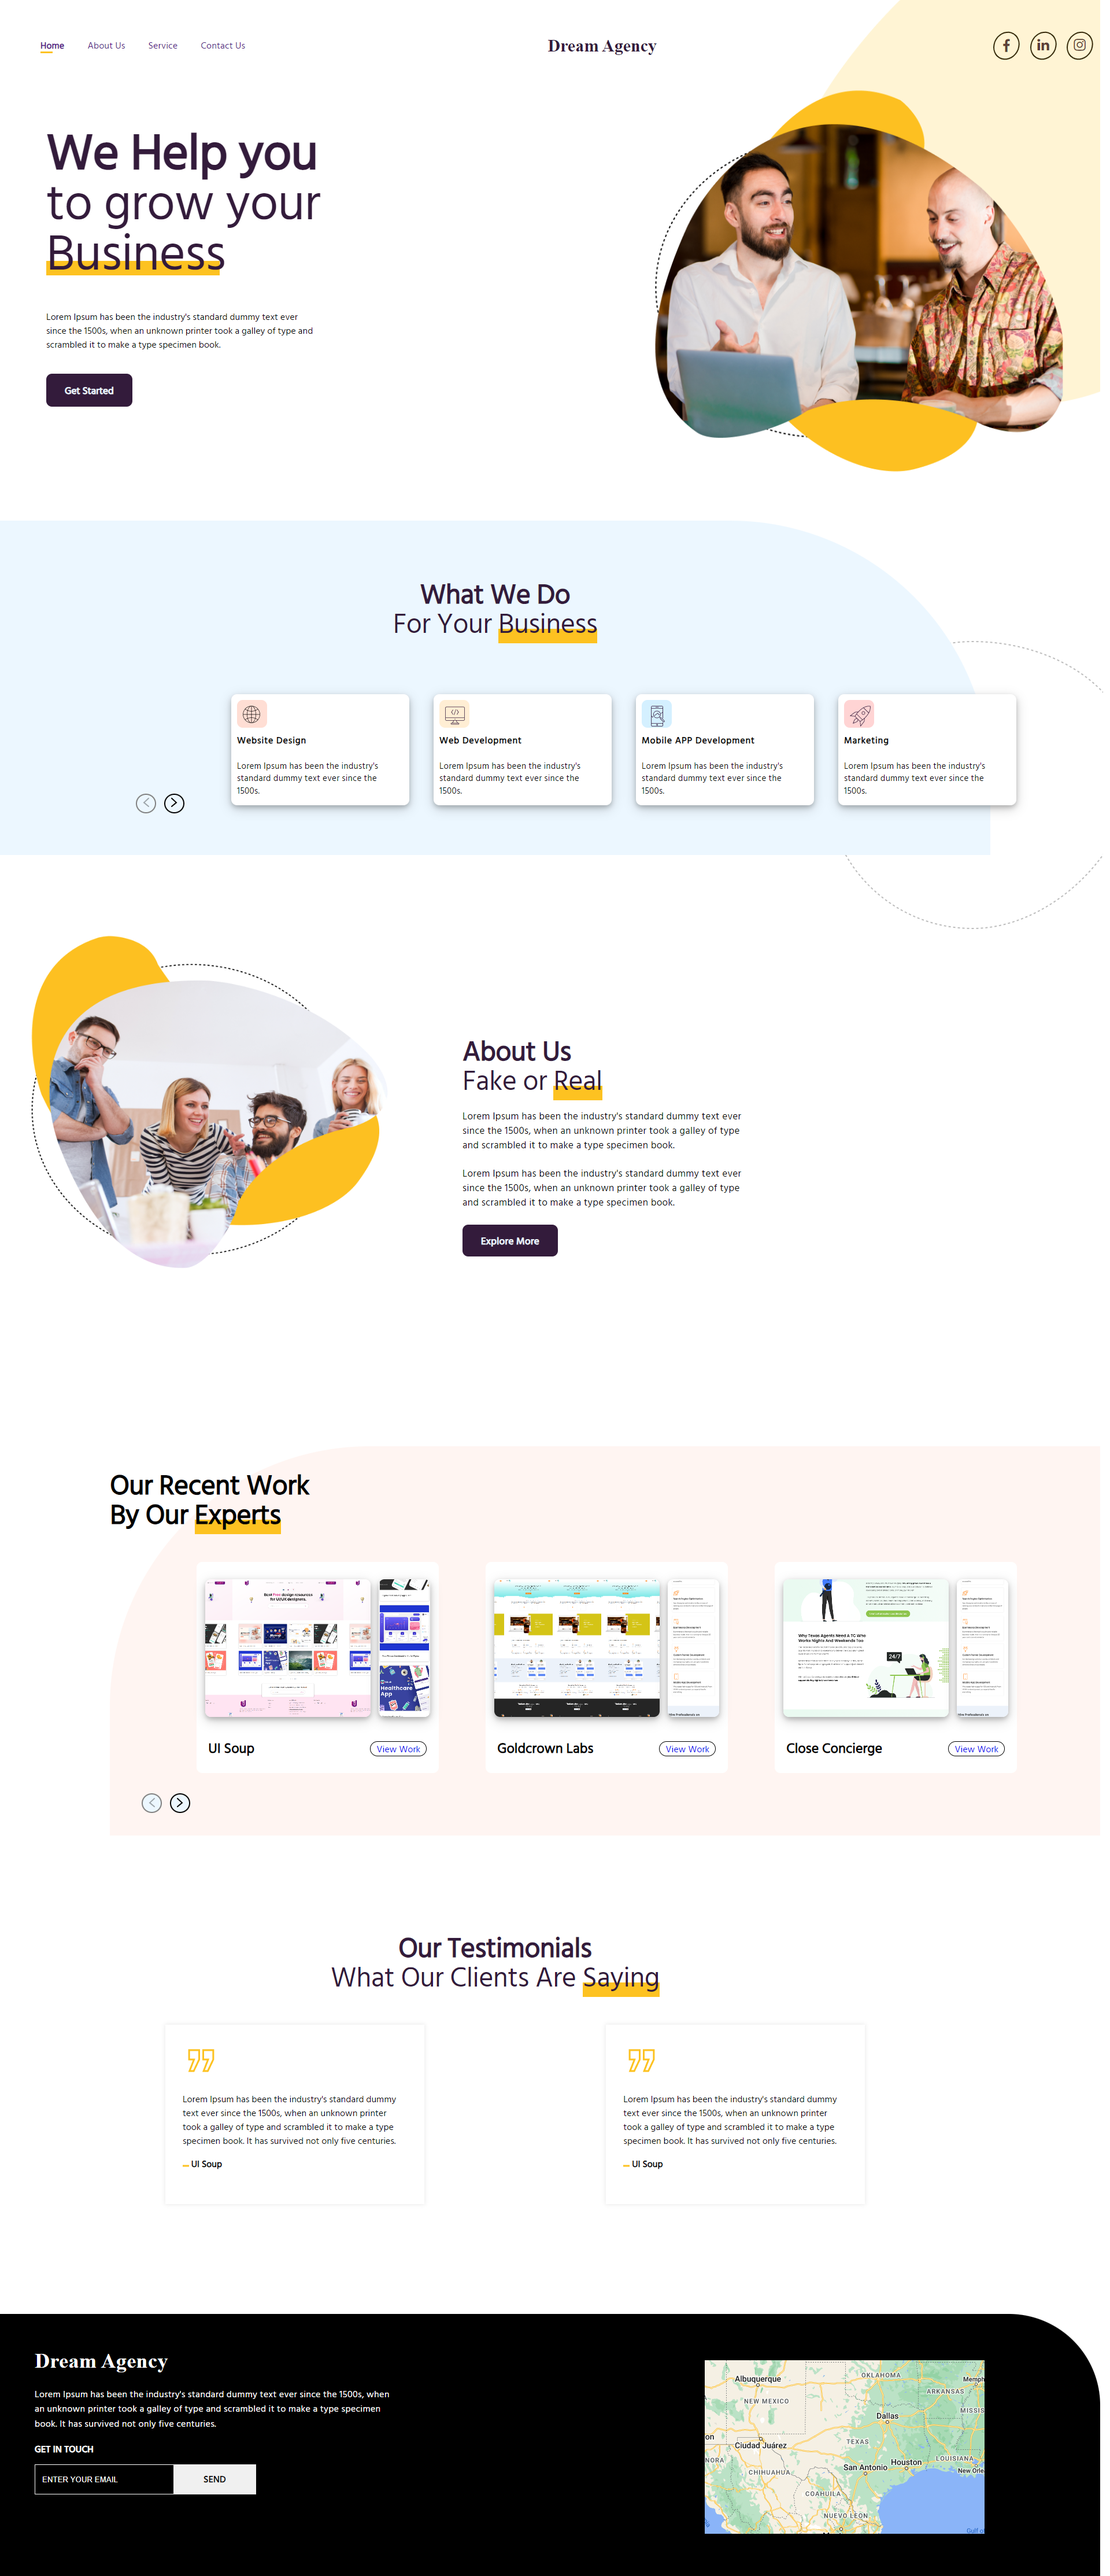
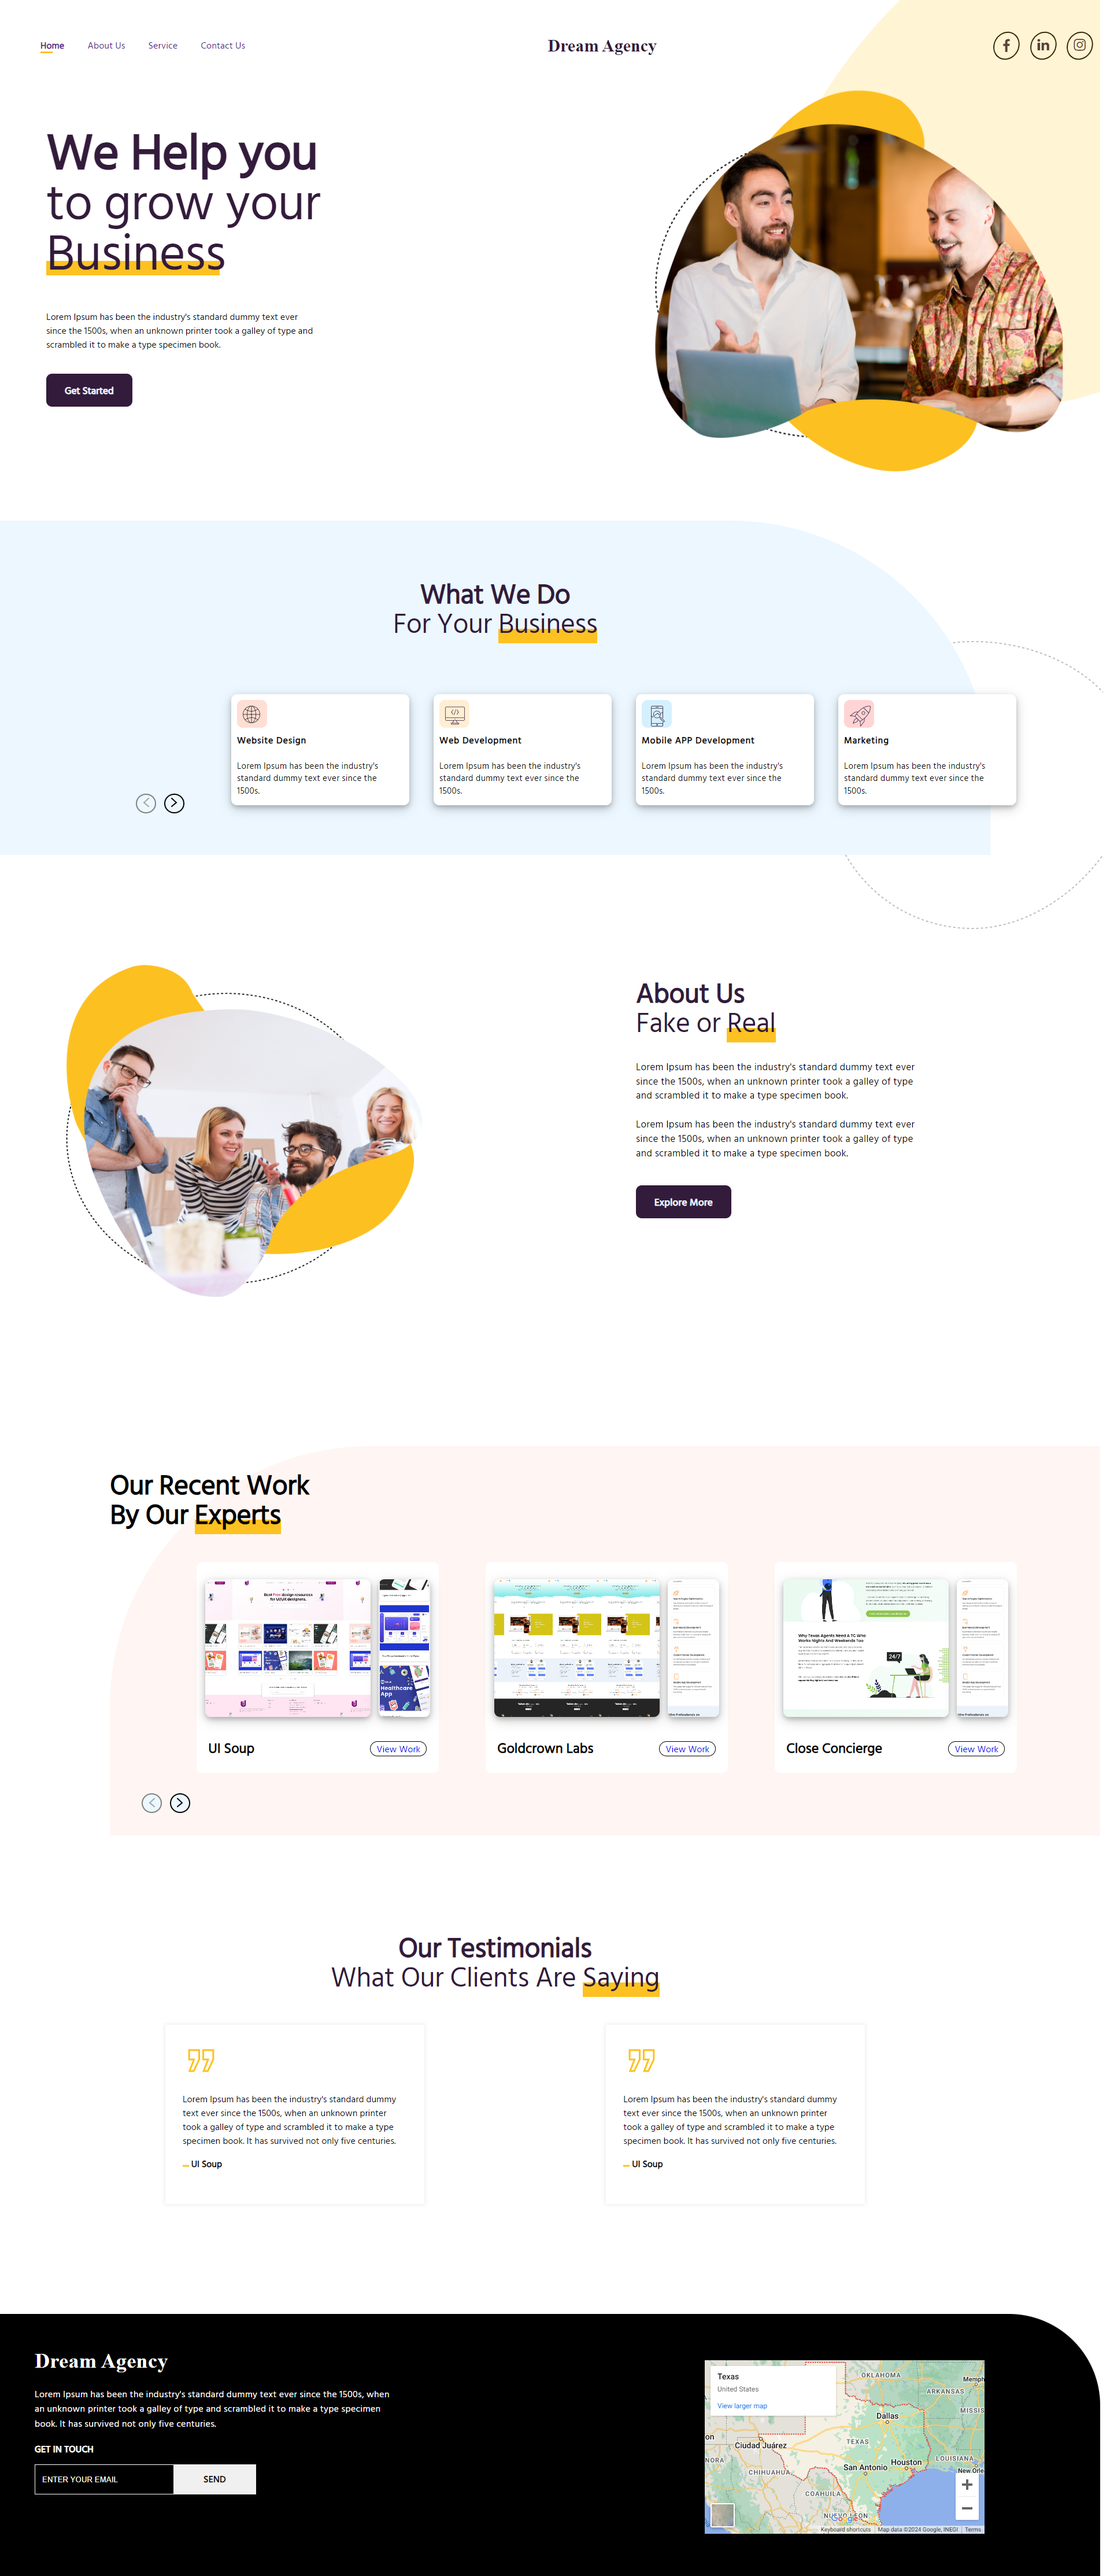
updated second section

diff --git a/style.css b/style.css
@@ -294,21 +294,22 @@ nav ul li a.active::after {
 
 .third-section {
   position: absolute;
-  top: 750px;
+  top: 1650px;
 }
 
 .third_section_image {
   position: absolute;
-  top: 850px;
-  margin-left: 40px;
+  margin-left: 100px;
   width: 659.95px;
   height: 605.92px;
 }
 
+.third-section-elements {
+  margin-left: 1100px;
+  text-align: left;
+}
+
 .third-section-elements h2 {
-  position: absolute;
-  top: 1000px;
-  left: 800px;
   width: 338px;
   height: 102px;
   font-family: "Hind Vadodara";
@@ -321,20 +322,12 @@ nav ul li a.active::after {
 }
 
 .third-section-elements p {
-  position: absolute;
-  top: 1150px;
-  left: 800px;
   width: 500px;
   font-family: "Hind Vadodara";
   font-size: 17px;
   font-weight: 400;
   line-height: 24.87px;
   letter-spacing: 0.02em;
-}
-
-.third-section-elements a {
-  position: absolute;
-  top: 200px;
 }
 
 .fourth-section {

diff --git a/index.html b/index.html
@@ -176,7 +176,7 @@
           1500s, when an unknown printer took a galley of type and scrambled it
           to make a type specimen book.
         </p>
-        <p><a href="" class="btn">Explore More</a></p>
+        <p style="margin-top: 60px;"><a href="" class="btn">Explore More</a></p>
       </div>
     </section>
 
